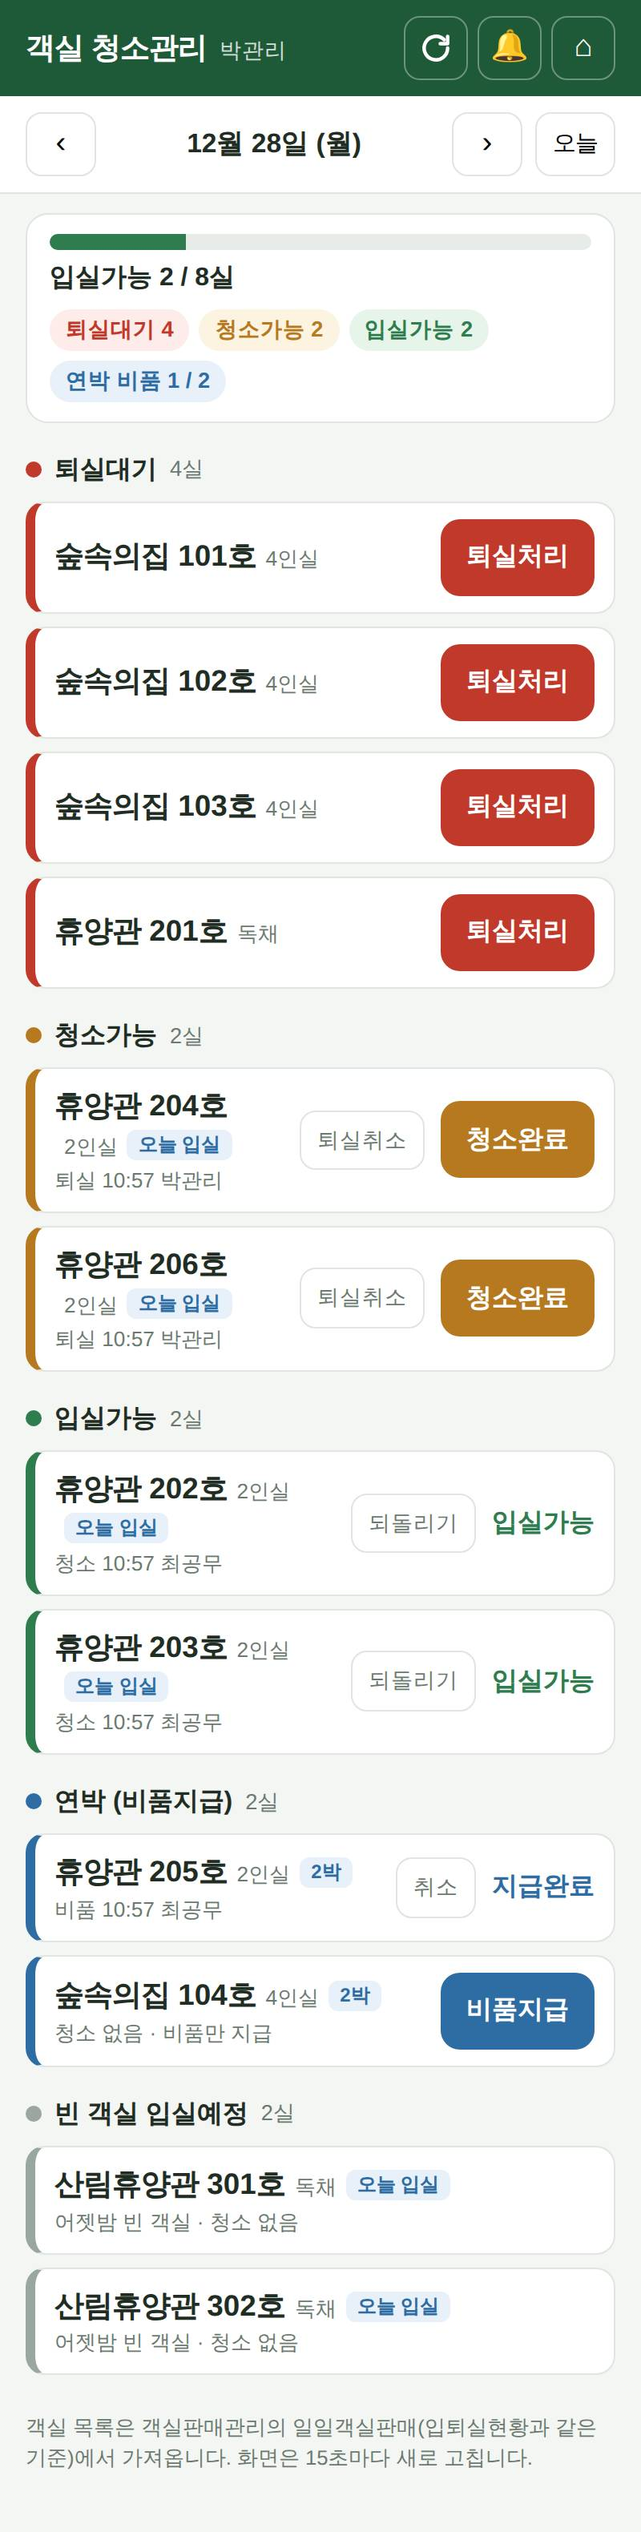
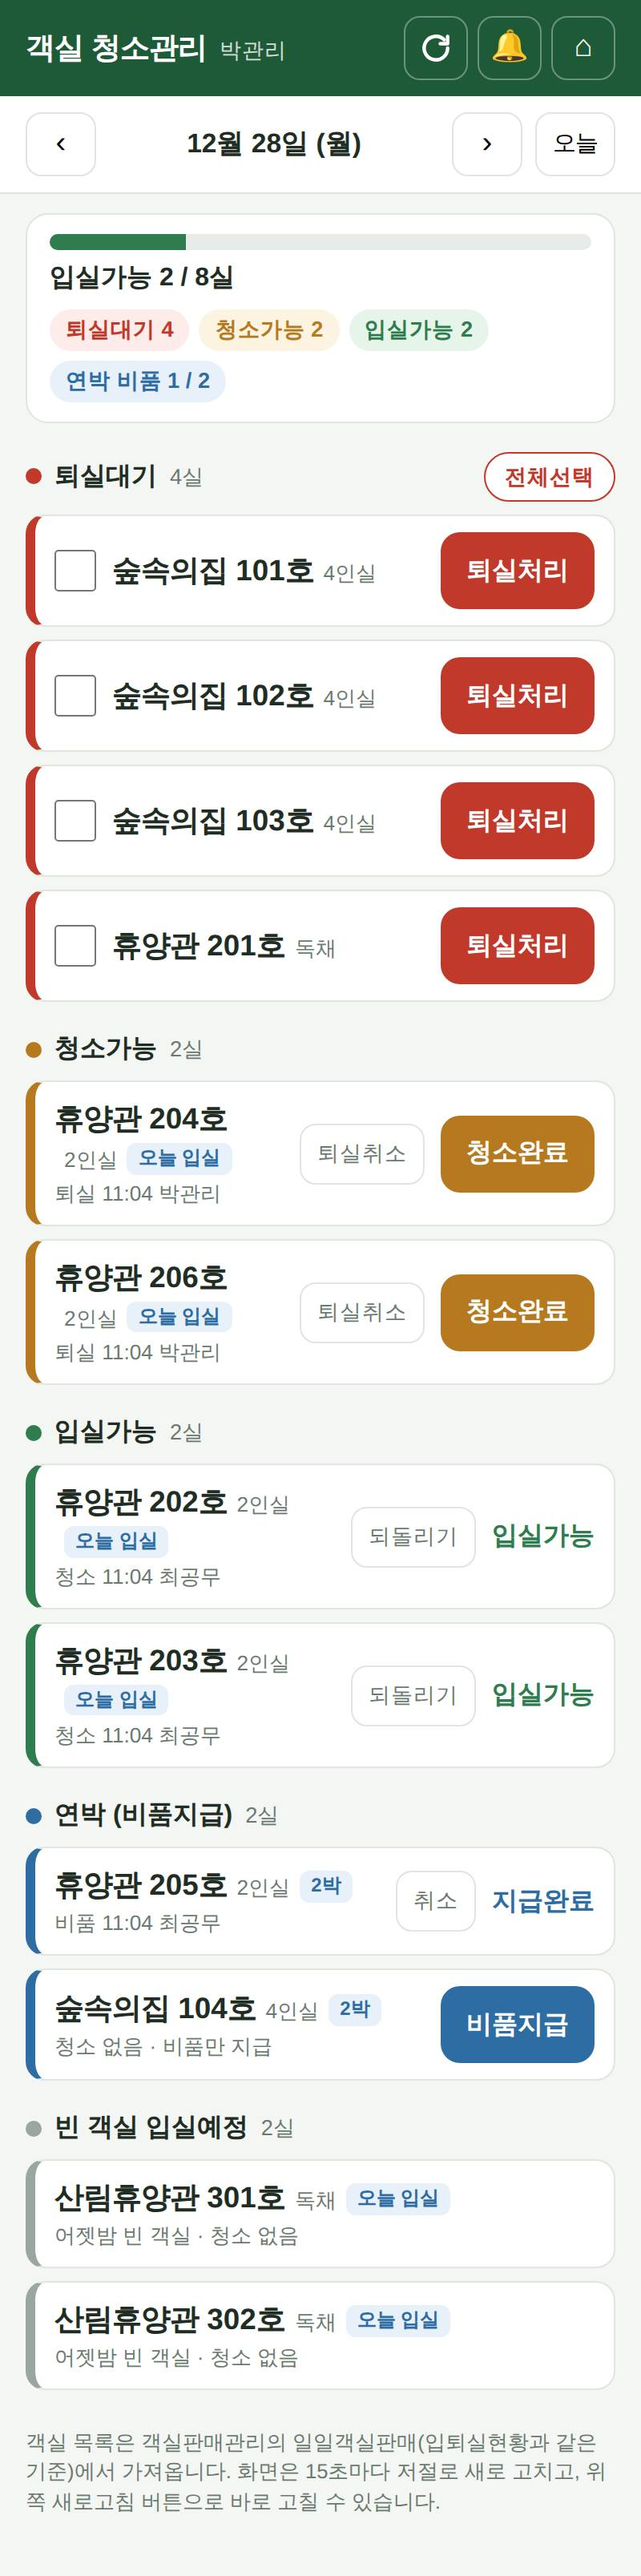
청소관리: 퇴실대기 여러 객실 선택 → 한 번에 퇴실처리
- 체크박스·전체선택·선택 퇴실처리 막대, act=bulk (알림 한 번)
- 한꺼번에 처리한 퇴실·청소완료 알림은 하나로 묶음

Claude-Session: https://claude.ai/code/session_01Lr6yxKyasrSL9QLfMX5TX8

diff --git a/assets/clean.js b/assets/clean.js
@@ -3,6 +3,7 @@
   const C = window.CLEAN;
   let state = C.state;
   let busy = false;
+  const picked = new Set(); // 퇴실대기에서 체크한 객실 id
   const $ = (s) => document.querySelector(s);
   const esc = (s) => String(s == null ? '' : s).replace(/[&<>"]/g, (c) => ({ '&': '&amp;', '<': '&lt;', '>': '&gt;', '"': '&quot;' }[c]));
   const WD = ['일', '월', '화', '수', '목', '금', '토'];
@@ -15,15 +16,17 @@
     clearTimeout(toast.t); toast.t = setTimeout(() => { t.hidden = true; }, err ? 4000 : 2200);
   }
 
-  function room(r, cls, right, meta, tag) {
-    return '<div class="cl-room ' + cls + '"><div class="info"><span class="name">' + esc(r.name) + '</span><span class="type">' + esc(r.type) + '</span>'
+  function room(r, cls, right, meta, tag, check) {
+    return '<div class="cl-room ' + cls + (check && picked.has(r.id) ? ' picked' : '') + '"' + (check ? ' data-pick-card="' + r.id + '"' : '') + '>'
+      + (check ? '<span class="cl-check"><input type="checkbox" data-pick value="' + r.id + '"' + (picked.has(r.id) ? ' checked' : '') + ' aria-label="' + esc(r.name) + ' 선택"></span>' : '')
+      + '<div class="info"><span class="name">' + esc(r.name) + '</span><span class="type">' + esc(r.type) + '</span>'
       + (tag ? '<span class="cl-tag">' + tag + '</span>' : '') + (meta ? '<div class="meta">' + meta + '</div>' : '') + '</div>' + right + '</div>';
   }
   const btn = (id, op, label, cls) => '<button type="button" class="cl-act ' + cls + '" data-op="' + op + '" data-room="' + id + '">' + label + '</button>';
   const undo = (id, op, label) => '<button type="button" class="cl-undo" data-op="' + op + '" data-room="' + id + '">' + label + '</button>';
 
-  function section(title, color, items, empty) {
-    return '<section class="cl-sec"><h2><span class="dot" style="background:' + color + '"></span>' + title + ' <small>' + items.length + '실</small></h2>'
+  function section(title, color, items, empty, extra) {
+    return '<section class="cl-sec"><h2><span class="dot" style="background:' + color + '"></span>' + title + ' <small>' + items.length + '실</small>' + (extra || '') + '</h2>'
       + (items.length ? '<div class="cl-grid">' + items.join('') + '</div>' : '<p class="cl-empty">' + empty + '</p>') + '</section>';
   }
 
@@ -39,7 +42,11 @@
     $('[data-allready]').hidden = !s.all_ready;
 
     const inTag = (r) => (r.in_today ? '오늘 입실' : '');
-    const wait = s.rooms.filter((r) => r.status === 'wait').map((r) => room(r, 'wait', btn(r.id, 'out', '퇴실처리', 'wait'), '', inTag(r)));
+    const waitRooms = s.rooms.filter((r) => r.status === 'wait');
+    const waitIds = new Set(waitRooms.map((r) => r.id));
+    [...picked].forEach((id) => { if (!waitIds.has(id)) picked.delete(id); }); // 이미 퇴실처리된 객실은 선택에서 뺌
+    const wait = waitRooms.map((r) => room(r, 'wait', btn(r.id, 'out', '퇴실처리', 'wait'), '', inTag(r), true));
+    const allOn = waitRooms.length > 0 && picked.size === waitRooms.length;
     const dirty = s.rooms.filter((r) => r.status === 'dirty').map((r) => room(r, 'dirty',
       undo(r.id, 'undo_out', '퇴실취소') + btn(r.id, 'clean', '청소완료', 'dirty'), '퇴실 ' + esc(r.out_at) + ' ' + esc(r.out_by), inTag(r)));
     const ready = s.rooms.filter((r) => r.status === 'ready').map((r) => room(r, 'ready',
@@ -48,11 +55,46 @@
       r.supply_at ? undo(r.id, 'undo_supply', '취소') + '<span class="cl-done stay">지급완료</span>' : btn(r.id, 'supply', '비품지급', 'stay'),
       r.supply_at ? '비품 ' + esc(r.supply_at) + ' ' + esc(r.supply_by) : '청소 없음 · 비품만 지급', r.nights + '박'));
     const arr = s.arrivals.map((r) => room(r, 'arrive', '', '어젯밤 빈 객실 · 청소 없음', '오늘 입실'));
-    $('[data-list]').innerHTML = section('퇴실대기', 'var(--wait)', wait, '퇴실을 기다리는 객실이 없습니다.')
+    $('[data-list]').innerHTML = section('퇴실대기', 'var(--wait)', wait, '퇴실을 기다리는 객실이 없습니다.',
+      waitRooms.length > 1 ? '<button type="button" class="cl-pick-all" data-pick-all>' + (allOn ? '선택 해제' : '전체선택') + '</button>' : '')
       + section('청소가능', 'var(--dirty)', dirty, '청소할 객실이 없습니다.')
       + section('입실가능', 'var(--ready)', ready, '아직 청소를 마친 객실이 없습니다.')
       + section('연박 (비품지급)', 'var(--stay)', stays, '연박 객실이 없습니다.')
       + (arr.length ? section('빈 객실 입실예정', '#9aa79f', arr, '') : '');
+    bulkBar();
+  }
+
+  // 체크한 퇴실대기 객실 → 아래 '선택 퇴실처리' 막대
+  function bulkBar() {
+    const bar = $('[data-bulk]');
+    bar.hidden = picked.size === 0;
+    bar.querySelector('[data-bulk-count]').textContent = picked.size;
+    document.body.classList.toggle('cl-has-bulk', picked.size > 0);
+    document.querySelectorAll('[data-pick-card]').forEach((c) => {
+      const on = picked.has(Number(c.dataset.pickCard));
+      c.classList.toggle('picked', on);
+      c.querySelector('[data-pick]').checked = on;
+    });
+    const all = $('[data-pick-all]');
+    if (all) all.textContent = picked.size === document.querySelectorAll('[data-pick-card]').length ? '선택 해제' : '전체선택';
+  }
+  async function bulkOut() {
+    if (busy || !picked.size) return;
+    const names = state.rooms.filter((r) => picked.has(r.id)).map((r) => r.name);
+    if (!confirm(names.length + '실을 한 번에 퇴실처리할까요?\n' + names.join(', ') + '\n\n청소가능 상태가 되고 모든 사용자에게 알림이 갑니다.')) return;
+    busy = true;
+    const b = $('[data-bulk-out]'); b.disabled = true;
+    const fd = new FormData();
+    fd.append('act', 'bulk'); fd.append('date', state.date); fd.append('_csrf', C.csrf);
+    picked.forEach((id) => fd.append('rooms[]', id));
+    try {
+      const r = await fetch(C.api, { method: 'POST', body: fd, credentials: 'same-origin' });
+      const j = await r.json();
+      if (j.rooms) { picked.clear(); state = j; render(); }
+      if (j.error) toast((j.done ? j.done + '실 퇴실처리 · ' : '') + j.error, true);
+      else toast(j.done + '실을 퇴실처리했습니다.');
+    } catch (e) { toast('저장하지 못했습니다. 인터넷 연결을 확인하세요.', true); }
+    b.disabled = false; busy = false;
   }
 
   async function load(date) {
@@ -72,6 +114,19 @@
   const DONE = { out: '퇴실처리했습니다.', clean: '청소완료 — 입실가능', supply: '비품지급을 기록했습니다.', undo_out: '퇴실처리를 취소했습니다.', undo_clean: '되돌렸습니다.', undo_supply: '취소했습니다.' };
 
   document.addEventListener('click', async (ev) => {
+    if (ev.target.closest('[data-bulk-out]')) return bulkOut();
+    if (ev.target.closest('[data-bulk-clear]')) { picked.clear(); return bulkBar(); }
+    if (ev.target.closest('[data-pick-all]')) {
+      const ids = [...document.querySelectorAll('[data-pick-card]')].map((c) => Number(c.dataset.pickCard));
+      if (picked.size === ids.length) picked.clear(); else ids.forEach((id) => picked.add(id));
+      return bulkBar();
+    }
+    const card = ev.target.closest('[data-pick-card]');
+    if (card && !ev.target.closest('[data-op]')) { // 객실 칸 아무 곳이나 눌러도 체크
+      const id = Number(card.dataset.pickCard);
+      if (ev.target.matches('[data-pick]') ? !ev.target.checked : picked.has(id)) picked.delete(id); else picked.add(id);
+      return bulkBar();
+    }
     const b = ev.target.closest('[data-op]');
     if (b) {
       if (busy) return;

diff --git a/assets/clean.css b/assets/clean.css
@@ -73,3 +73,20 @@ button { font: inherit; cursor: pointer; }
 .cl-toast { position: fixed; left: 50%; bottom: calc(env(safe-area-inset-bottom) + 20px); transform: translateX(-50%); max-width: calc(100% - 32px);
   padding: 10px 16px; border-radius: 12px; background: rgba(31,45,36,.92); color: #fff; font-size: .95rem; z-index: 10; }
 .cl-toast.err { background: #a93226; }
+
+/* 퇴실대기 여러 개 선택 → 한 번에 퇴실처리 */
+.cl-check { flex: none; display: flex; align-items: center; }
+.cl-check input { width: 26px; height: 26px; margin: 0; accent-color: var(--wait); cursor: pointer; }
+.cl-room.wait { cursor: pointer; }
+.cl-room.picked { background: var(--wait-bg); border-color: #f1b7b0; }
+.cl-pick-all { margin-left: auto; padding: 5px 12px; border-radius: 999px; border: 1px solid var(--wait); background: #fff; color: var(--wait); font-size: .85rem; font-weight: 600; }
+.cl-bulk { position: fixed; left: 0; right: 0; bottom: 0; z-index: 8; display: flex; align-items: center; gap: 8px;
+  padding: 10px 16px calc(env(safe-area-inset-bottom) + 10px); background: #fff; border-top: 1px solid var(--line); box-shadow: 0 -4px 16px rgba(0,0,0,.08); }
+.cl-bulk[hidden] { display: none; }
+.cl-bulk span { flex: 1; font-size: 1rem; }
+.cl-bulk b { color: var(--wait); font-size: 1.2rem; }
+.cl-bulk-clear { padding: 0 14px; min-height: 48px; border-radius: 12px; border: 1px solid var(--line); background: #fff; color: var(--muted); }
+.cl-bulk-out { padding: 0 18px; min-height: 48px; border-radius: 12px; border: 0; background: var(--wait); color: #fff; font-weight: 700; font-size: 1rem; }
+.cl-bulk-out:disabled { opacity: .5; }
+body.cl-has-bulk .cl-main { padding-bottom: 96px; }
+body.cl-has-bulk .cl-toast { bottom: calc(env(safe-area-inset-bottom) + 84px); }

diff --git a/app/help.php b/app/help.php
@@ -211,7 +211,7 @@ HTML],
   <li>그 날 일일객실판매가 아직 없으면 입실예정이 비어 있으니, 객실판매관리에서 먼저 작성(입실예정 엑셀로 채우기)하세요.</li>
 </ul>
 HTML],
-            ['id' => 'clean', 'title' => '청소관리 (휴대폰 앱)', 'keys' => ['clean'], 'img' => ['clean.jpg' => '청소관리 앱 화면'], 'body' => <<<'HTML'
+            ['id' => 'clean', 'title' => '청소관리 (휴대폰 앱)', 'keys' => ['clean'], 'img' => ['clean.jpg' => '청소관리 앱 화면', 'clean_bulk.jpg' => '퇴실대기 여러 객실 한 번에 퇴실처리'], 'body' => <<<'HTML'
 <p>휴대폰에서 객실 <b>퇴실처리 → 청소완료</b>를 기록하고, 모든 사용자가 알림을 받는 앱입니다. 메뉴: 객실관리 › 청소관리 (객실관리 메뉴 권한 필요).</p>
 <ul>
   <li><b>앱 설치</b>: 휴대폰으로 사이트에 로그인(자동 로그인 체크)한 뒤 청소관리 화면을 엽니다.
@@ -220,6 +220,8 @@ HTML],
   <li>객실 목록은 입퇴실현황과 같은 기준(일일객실판매)입니다.
     <b>퇴실대기</b>(빨강) → <b>퇴실처리</b>를 누르면 <b>청소가능</b>(주황) → <b>청소완료</b>를 누르면 <b>입실가능</b>(초록).
     퇴실처리·청소완료 때마다 다른 사용자 모두에게 알림이 가고, 퇴실 객실이 모두 청소완료되면 <b>'전객실 입실준비완료'</b> 알림이 갑니다.</li>
+  <li><b>여러 객실 한 번에 퇴실처리</b>: 퇴실대기 객실의 체크박스(또는 객실 칸)를 눌러 고르거나 <b>전체선택</b>을 누르면 아래에 <b>선택 퇴실처리</b> 막대가 나옵니다.
+    누르면 고른 객실이 한꺼번에 청소가능이 되고, 알림은 '퇴실 3실 · 101호, 102호…'처럼 <b>한 번</b>만 갑니다.</li>
   <li>잘못 눌렀으면 <b>퇴실취소</b>·<b>되돌리기</b>로 한 단계 되돌립니다 (알림 없음). '오늘 입실' 표시는 그 객실에 오늘 새 손님이 들어온다는 뜻입니다.</li>
   <li><b>연박</b> 객실은 청소 대상이 아니고 <b>비품지급</b> 버튼으로 지급 여부만 기록합니다 (알림 없음). 어젯밤 빈 객실에 오늘 입실하는 객실은 아래 '빈 객실 입실예정'에 따로 나옵니다.</li>
   <li>화면은 15초마다 저절로 새로 고치고, 위쪽 <b>↻</b>(새로고침)를 누르면 바로 최신 상태로 바뀝니다. 날짜(‹ ›)를 바꿔 지난 날짜 기록도 봅니다.</li>

diff --git a/clean_api.php b/clean_api.php
@@ -3,6 +3,7 @@
  * 객실 청소관리 앱(clean.php)의 데이터 주소 — JSON
  *   GET  ?act=state&date=YYYY-MM-DD           그 날 객실 상태
  *   POST act=do  date, room, op, _csrf         퇴실처리·청소완료·비품지급·되돌리기 (퇴실·청소완료는 알림)
+ *   POST act=bulk  date, rooms[], _csrf          퇴실대기 여러 객실 한 번에 퇴실처리 (알림 한 번)
  *   POST act=subscribe / unsubscribe  endpoint, _csrf   이 기기 알림 켜기·끄기
  *   POST act=test  endpoint, _csrf              알림 테스트 (이 기기에만, 알림 서버 응답 코드 반환)
  *   POST act=sw_events  {"endpoint": …}        알림을 받은 앱(clean-sw.js)이 띄울 내용 (로그인 없이 구독한 기기만)
@@ -44,6 +45,21 @@ switch ($act) {
         clean_json(['error' => $err ?: null] + clean_state($date), $err ? 409 : 200);
         if ($notify) {
             // 응답을 먼저 보내고 알림 (휴대폰 화면이 기다리지 않게)
+            if (function_exists('fastcgi_finish_request')) fastcgi_finish_request();
+            push_notify_all((int) $user['id']);
+        }
+        exit;
+    case 'bulk': // 퇴실대기 객실 여러 개를 한 번에 퇴실처리 (알림은 한 번)
+        $done = 0;
+        $errs = [];
+        $rooms = array_unique(array_map('intval', (array) ($_POST['rooms'] ?? [])));
+        $names = array_column(products_all(), 'name', 'id');
+        foreach (array_slice($rooms, 0, 200) as $pid) {
+            [$err] = clean_act($date, $pid, 'out', $user);
+            if ($err) $errs[] = ($names[$pid] ?? $pid) . ': ' . $err; else $done++;
+        }
+        clean_json(['done' => $done, 'error' => $errs ? implode(' / ', $errs) : null] + clean_state($date), $done || !$errs ? 200 : 409);
+        if ($done) {
             if (function_exists('fastcgi_finish_request')) fastcgi_finish_request();
             push_notify_all((int) $user['id']);
         }

diff --git a/app/clean.php b/app/clean.php
@@ -148,10 +148,23 @@ function clean_events_for(array $sub): array
         $st->execute([(int) $sub['user_id']]);
         $evs = $st->fetchAll();
     }
-    $out = array_map(function ($ev) {
+    // 같은 사람이 같은 종류(퇴실·청소완료)를 한꺼번에 처리한 것은 알림 하나로 묶는다 (퇴실 일괄처리)
+    $groups = [];
+    foreach ($evs as $ev) {
+        $k = in_array($ev['kind'], ['out', 'clean'], true) ? $ev['kind'] . '|' . $ev['user_id'] . '|' . $ev['work_date'] : 'e' . $ev['id'];
+        $groups[$k][] = $ev;
+    }
+    $out = [];
+    foreach ($groups as $g) {
+        $ev = end($g);
         [$title, $body] = clean_event_text($ev);
-        return ['id' => (int) $ev['id'], 'kind' => $ev['kind'], 'title' => $title, 'body' => $body];
-    }, $evs);
+        if (count($g) > 1) {
+            $title = ($ev['kind'] === 'out' ? '퇴실 ' : '입실가능 ') . count($g) . '실';
+            $body = implode(', ', array_column($g, 'room_name')) . ' — ' . ($ev['kind'] === 'out' ? '퇴실처리되어 청소가능' : '청소완료되어 입실가능')
+                . ' (' . trim($ev['user_name'] . ' ' . substr((string) $ev['created_at'], 11, 5)) . ')';
+        }
+        $out[] = ['id' => (int) $ev['id'], 'kind' => $ev['kind'], 'title' => $title, 'body' => $body];
+    }
     // 알림 테스트 요청 (5분 안)
     if (!empty($sub['test_at']) && strtotime((string) $sub['test_at']) >= time() - 300) {
         db()->prepare('UPDATE push_subs SET test_at = NULL WHERE id = ?')->execute([(int) $sub['id']]);

diff --git a/app/changelog.php b/app/changelog.php
@@ -7,6 +7,10 @@ defined('APP_ROOT') || exit;
  *   ['date' => 'YYYY-MM-DD', 'title' => '한 줄 요약', 'items' => ['자세한 내용', ...], 'menu' => '관련 메뉴(선택)']
  */
 const CHANGELOG = [
+    ['date' => '2026-10-05', 'title' => '청소관리: 퇴실대기 여러 객실 한 번에 퇴실처리', 'menu' => '객실관리', 'items' => [
+        "퇴실대기 객실에 체크박스와 '전체선택'을 넣었습니다. 여러 객실을 골라 아래 '선택 퇴실처리'를 누르면 한꺼번에 청소가능이 됩니다.",
+        "한꺼번에 처리한 퇴실·청소완료 알림은 '퇴실 3실 · 101호, 102호…'처럼 하나로 묶어서 보냅니다.",
+    ]],
     ['date' => '2026-10-05', 'title' => '청소관리: 새로고침 버튼', 'menu' => '객실관리', 'items' => [
         '청소관리 앱 위쪽에 ↻(새로고침) 버튼을 넣었습니다. 누르면 다른 사람이 처리한 내용까지 바로 최신 상태로 바뀝니다.',
     ]],

diff --git a/clean.php b/clean.php
@@ -62,6 +62,11 @@ $boot = [
   <div data-list></div>
   <p class="cl-foot">객실 목록은 객실판매관리의 일일객실판매(입퇴실현황과 같은 기준)에서 가져옵니다. 화면은 15초마다 저절로 새로 고치고, 위쪽 새로고침 버튼으로 바로 고칠 수 있습니다.</p>
 </main>
+<div class="cl-bulk" data-bulk hidden>
+  <span>선택 <b data-bulk-count>0</b>실</span>
+  <button type="button" class="cl-bulk-clear" data-bulk-clear>해제</button>
+  <button type="button" class="cl-bulk-out" data-bulk-out>선택 퇴실처리</button>
+</div>
 <div class="cl-toast" data-toast hidden></div>
 <script>window.CLEAN = <?= json_encode($boot, JSON_UNESCAPED_UNICODE | JSON_UNESCAPED_SLASHES | JSON_HEX_TAG | JSON_HEX_AMP) ?>;</script>
 <script src="<?= e(asset_url('assets/clean.js')) ?>"></script>
